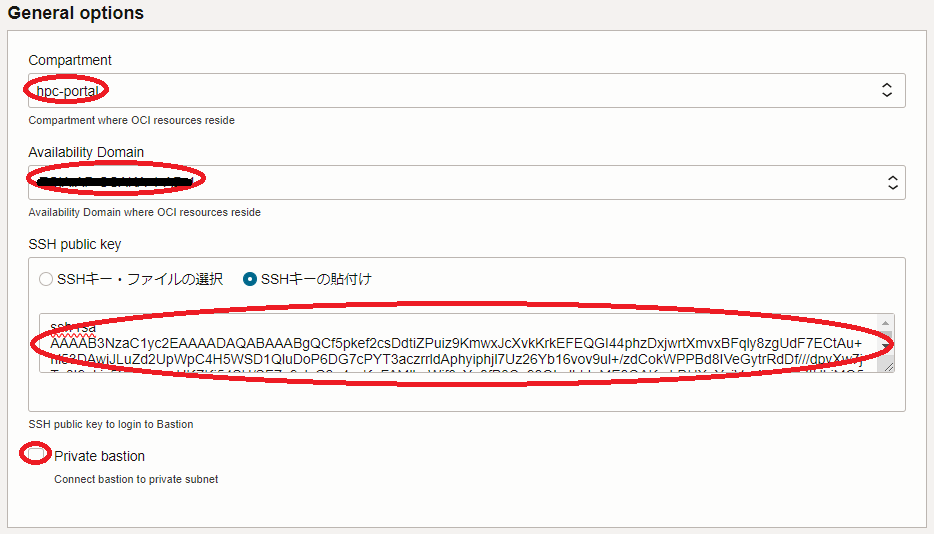
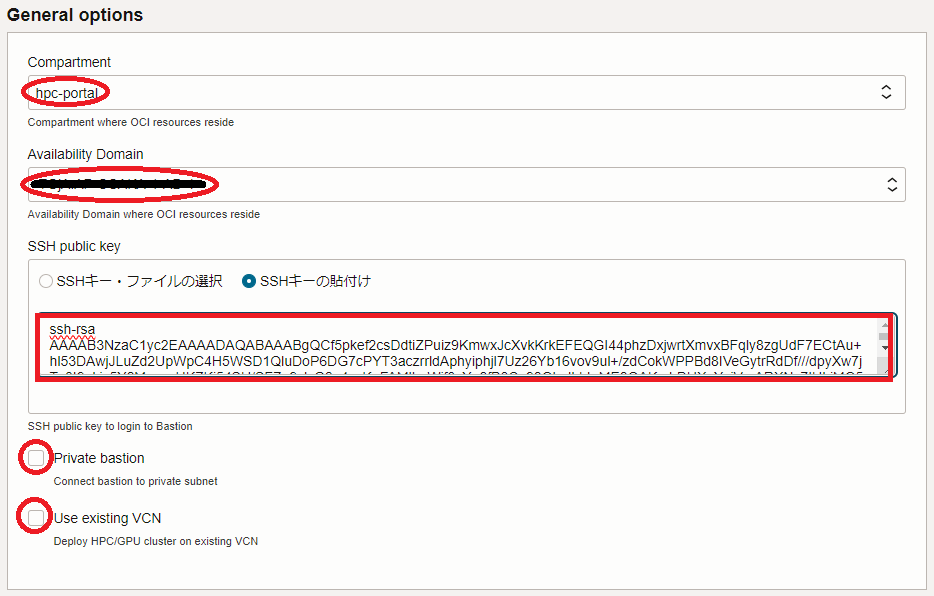
チュートリアル：OCI HPCチュートリアル集 カテゴリ：OCI HPCポータル 更新内容："HPCクラスタを構築する(基礎インフラ自動構築編)"に既存VCNを利用する機能を追加、これらに伴う修正、及び誤記訂正・軽微な修正

Changed region(s): [[0.0, 0.0899, 0.9625, 0.9288], [0.0, 0.0, 0.9936, 0.0599], [0.0, 0.9888, 0.9936, 1.0]]

diff --git a/tutorials/_hpc/spinup-hpc-cluster-withterraform.md b/tutorials/_hpc/spinup-hpc-cluster-withterraform.md
@@ -28,15 +28,21 @@ table, th, td {
 - 計算ノード用 **[インスタンス構成](/ocitutorials/hpc/#5-7-インスタンス構成)** 作成
 - **クラスタ・ネットワーク** と計算ノード構築
 - HPCクラスタ内のノード間SSHアクセスに使用するSSH鍵ペア作成・配布
-- 計算ノードの全ホスト名を記載したホストリストファイル（/home/opc/hostlist.txt）作成
+- 計算ノードの全ホスト名を記載したホストリストファイル（ **/home/opc/hostlist.txt** ）作成
 - 構築したBastionノード・計算ノードのホスト名・IPアドレス出力
 
 Bastionノードは、接続するサブネットをパブリックとプライベートから選択することが可能（※1）で、以下のBastionノードへのログイン方法に合わせて選択します。
 
 - インターネット経由ログイン -> パブリックサブネット接続
-- 拠点間接続経由ログイン > プライベートサブネット接続
+- 拠点間接続経由ログイン -> プライベートサブネット接続
 
 ※1）構築方法に **Terraform** CLIを採用する場合は、パブリックサブネット接続のみ選択可能です。
+
+またVCNと関連するネットワークリソースは、既に構築してあるものを活用することも可能で、この場合はこれらが以下の条件を満たしているている必要があります。
+
+- プライベートサブネットが存在する
+- パブリックサブネットが存在する（Bastionノードパブリック接続の場合）
+- パブリックサブネット・プライベートサブネット間で **セキュリティ・リスト** によりアクセスが制限されていない（Bastionノードパブリック接続の場合）
 
 ![システム構成図（パブリック）](architecture_diagram.png)
 <br>
@@ -56,7 +62,6 @@ Bastionノード構築は、 **[cloud-init](/ocitutorials/hpc/#5-11-cloud-init)*
 - NVMe SSDローカルディスク領域ファイルシステム作成
 - **firewalld** 停止
 - ルートファイルシステム拡張
-- **クラスタ・ネットワーク** 接続用ネットワークインターフェース作成
 - BastionノードのDNS名前解決をショートホスト名で行うための **resolv.conf** 修正
 - Bastionノードホームディレクトリ領域のNFSマウント
 
@@ -121,6 +126,8 @@ Bastionノード構築は、 **[cloud-init](/ocitutorials/hpc/#5-11-cloud-init)*
     （公開鍵ファイルのアップロード（ **SSHキー・ファイルの選択** ）と公開鍵のフィールドへの貼り付け（ **SSHキーの貼付け** ）が選択可能）
     - **Private bastion :** Bastionノードをプライベートサブネットに接続するかどうかを指定（デフォルト：パブリックサブネット接続）  
     （パブリックサブネットに接続する場合はチェックオフ/プライベートサブネットに接続する場合はチェック）
+    - **Use existing VCN :** 既存のVCNを使用するかどうかを指定（デフォルト：VCNを新規作成）  
+    （既存のVCNを使用する場合は、チェックすると表示されるVCN・パブリックサブネット・プライベートサブネットの各フィールドにOCIDを指定します。）
 
    ![画面ショット](stack_page02.png)  
 4.2 **Compute/GPU node options** フィールド
@@ -136,7 +143,7 @@ Bastionノード構築は、 **[cloud-init](/ocitutorials/hpc/#5-11-cloud-init)*
    ![画面ショット](stack_page03.png)
 
     ※2） 例えば **x9-ol89** と指定した場合、計算ノードのホスト名は **inst-xxxxx-x9-ol89** となります。（ **xxxxx** はランダムな文字列）  
-    ※3）以下のOCIDを指定します。
+    ※3）以下のOCIDを指定します。なおこのイメージは、Bastionノードにも使用されます。
 
     | No.<br>（※6） | **Oracle Linux**<br>バージョン | OCID                                                                          |
     | :---------: | :-----------------------: | :---------------------------------------------------------------------------: |
@@ -265,6 +272,10 @@ Bastionノード構築は、 **[cloud-init](/ocitutorials/hpc/#5-11-cloud-init)*
     | compartment_ocid   | HPCクラスタをデプロイする **コンパートメント** のOCID                                                    | **[ここ](https://docs.oracle.com/ja-jp/iaas/Content/GSG/Tasks/contactingsupport_topic-Finding_the_OCID_of_a_Compartment.htm)** を参照 |
     | ad                 | HPCクラスタをデプロイする **可用性ドメイン** 識別子                                                       | （※7）                                                                                                                             |
     | ssh_key            | Bastionノードログインに使用するSSH秘密鍵に対する公開鍵                                                     | -                                                                                                                                |
+    |exist_vcn|既存のVCNを使用するかどうかの指定（true/false）|-|
+    |vcn_ocid|既存のVCNを使用する場合使用するVCNのOCID（※11）|（※12）|
+    |public_ocid|既存のVCNを使用する場合使用するパブリックサブネットのOCID（※11）|（※12）|
+    |private_ocid|既存のVCNを使用する場合使用するプライベートサブネットのOCID（※11）|（※12）|
     | comp_shape         | 計算ノードに使用するシェイプ<br>・ **BM.Optimized3.36**                                             | -                                                                                                                                |
     | comp_image         | 計算ノードに使用するOSイメージのOCID                                                                | （※8）                                                                                                                             |
     | comp_boot_vol_size | 計算ノードの **ブートボリューム** のサイズ（GB）                                                         | -                                                                                                                                |
@@ -280,7 +291,9 @@ Bastionノード構築は、 **[cloud-init](/ocitutorials/hpc/#5-11-cloud-init)*
 
     ※8）コメントとして埋め込まれているOSイメージOCIDから、コメント文の記載を参考に適切なOSイメージOCIDのコメントを外して使用します。詳細は、 **[OCI HPCテクニカルTips集](/ocitutorials/hpc/#3-oci-hpcテクニカルtips集)** の **[クラスタネットワーキングイメージの選び方](/ocitutorials/hpc/tech-knowhow/osimage-for-cluster/)** の **[1. クラスタネットワーキングイメージ一覧](/ocitutorials/hpc/tech-knowhow/osimage-for-cluster/#1-クラスタネットワーキングイメージ一覧)** を参照してください。  
     ※9）詳細は、 **[OCI HPCパフォーマンス関連情報](/ocitutorials/hpc/#2-oci-hpcパフォーマンス関連情報)** の **[パフォーマンスに関連するベア・メタル・インスタンスのBIOS設定方法](/ocitutorials/hpc/benchmark/bios-setting/)** を参照してください。  
-    ※10）例えば **x9-ol89** と指定した場合、計算ノードのホスト名は **inst-xxxxx-x9-ol89** となります。（ **xxxxx** はランダムな文字列）
+    ※10）例えば **x9-ol89** と指定した場合、計算ノードのホスト名は **inst-xxxxx-x9-ol89** となります。（ **xxxxx** はランダムな文字列）  
+    ※11）既存のVCNを使用する場合のみコメントを外して指定します。  
+    ※12）OCIコンソール上で当該VCN・サブネットの詳細画面を表示して確認します。
 
 ***
 # 1. HPCクラスタ構築

diff --git a/tutorials/_hpc/tech-knowhow/install-openfoam.md b/tutorials/_hpc/tech-knowhow/install-openfoam.md
@@ -52,22 +52,31 @@ MPI言語規格に準拠するMPI実装
 3. ノード間並列実行（大規模構成で可能）
 4. ノード間並列実行でローカルディスクを活用（※1）（大規模構成で可能）
 
-※1） **BM.Optimized3.36** が内蔵するNVMe SSDのローカルディスクに計算結果を書き込む方法で、特に並列数を大きくした場合、 **3.** のNFSによるファイル共有ストレージを使用する方法と比較して、スケーラビリティを改善出来る場合があります。
+※1） **BM.Optimized3.36** が内蔵するNVMe SSDのローカルディスクに計算結果を書き込む方法で、特に並列数を大きくした場合、 **3.** のNFSによるファイル共有ストレージを使用する方法と比較して、解析処理のスケーラビリティを改善出来る場合があります。
 
 構築する環境は、以下を前提とします。
 
-- 計算ノードシェイプ ： **BM.Optimized3.36**
-- Bastionノードシェイプ ： **VM.Optimized3.Flex**
-- 計算ノードOS ： **Oracle Linux** 8.9（※2）/ **Oracle Linux** 8.9ベースのHPC **[クラスタネットワーキングイメージ](/ocitutorials/hpc/#5-13-クラスタネットワーキングイメージ)** （※3）
-- BastionノードOS ： **Oracle Linux** 8.9
+[計算ノード]
+- シェイプ ： **BM.Optimized3.36**
+- OS ： **Oracle Linux** 8.9（※2）/ **Oracle Linux** 8.9ベースのHPC **[クラスタネットワーキングイメージ](/ocitutorials/hpc/#5-13-クラスタネットワーキングイメージ)** （※3）
+- ファイル共有ストレージ ： **ブロック・ボリューム** NFSサーバ / **ファイル・ストレージ** （※4）でBastionノードと全計算ノードの **/home** をNFSでファイル共有
+- ローカルディスクマウントポイント ： **/mnt/localdisk** （※5）
+
+[Bastionノード]
+- シェイプ ： **VM.Optimized3.Flex**
+- OS ： **Oracle Linux** 8.9
+- ファイル共有ストレージ ： **ブロック・ボリューム** NFSサーバ / **ファイル・ストレージ** （※4）でBastionノードと全計算ノードの **/home** をNFSでファイル共有
+
+[ソフトウェア]
 - **OpenFOAM** ： v2312
-- **OpenMPI** ：5.0.3
+- **OpenMPI** ： 5.0.3
 - **ParaView** ： 5.11.2
-- ファイル共有ストレージ ： **ブロック・ボリューム** NFSサーバ / **ファイル・ストレージ** （※4）でBastionノード・全計算ノードの **/home** をNFSでファイル共有
 
 ※2）小規模構成の場合  
 ※3）大規模構成の場合で、 **[OCI HPCテクニカルTips集](/ocitutorials/hpc/#3-oci-hpcテクニカルtips集)** の **[クラスタネットワーキングイメージの選び方](/ocitutorials/hpc/tech-knowhow/osimage-for-cluster/)** の **[1. クラスタネットワーキングイメージ一覧](/ocitutorials/hpc/tech-knowhow/osimage-for-cluster/#1-クラスタネットワーキングイメージ一覧)** のイメージ **No.1** です。  
-※4）詳細は、 **[OCI HPCテクニカルTips集](/ocitutorials/hpc/#3-oci-hpcテクニカルtips集)** の **[コストパフォーマンスの良いファイル共有ストレージ構築方法](/ocitutorials/hpc/tech-knowhow/howto-configure-sharedstorage/)** を参照してください。
+※4）詳細は、 **[OCI HPCテクニカルTips集](/ocitutorials/hpc/#3-oci-hpcテクニカルtips集)** の **[コストパフォーマンスの良いファイル共有ストレージ構築方法](/ocitutorials/hpc/tech-knowhow/howto-configure-sharedstorage/)** を参照してください。  
+※5）詳細は、 **[OCI HPCテクニカルTips集](/ocitutorials/hpc/#3-oci-hpcテクニカルtips集)** の **[ベアメタルインスタンスの内蔵NVMe SSD領域ファイルシステム作成方法](/ocitutorials/hpc/tech-knowhow/nvme-filesystem/)** を参照してください。  
+  
 
 なお、ポスト処理に使用するX11ベースの **ParaView** は、これが動作するBastionノードでGNOMEデスクトップとVNCサーバを起動し、VNCクライアントをインストールした自身の端末からVNC接続して操作します。
 
@@ -94,9 +103,9 @@ MPI言語規格に準拠するMPI実装
 
 - 計算ノード **ブート・ボリューム** サイズ ： 100GB以上（インストールするソフトウェアの容量確保のため）
 - Bastionノード **ブート・ボリューム** サイズ ： 100GB以上（インストールするソフトウェアの容量確保のため）
-- 計算ノードSMT : 無効（※5）
+- 計算ノードSMT : 無効（※6）
 
-※5）SMTを無効化する方法は、 **[OCI HPCパフォーマンス関連情報](/ocitutorials/hpc/#2-oci-hpcパフォーマンス関連情報)** の **[パフォーマンスに関連するベアメタルインスタンスのBIOS設定方法](/ocitutorials/hpc/benchmark/bios-setting/)** を参照してください。
+※6）SMTを無効化する方法は、 **[OCI HPCパフォーマンス関連情報](/ocitutorials/hpc/#2-oci-hpcパフォーマンス関連情報)** の **[パフォーマンスに関連するベアメタルインスタンスのBIOS設定方法](/ocitutorials/hpc/benchmark/bios-setting/)** を参照してください。
 
 また、Bastionノードと全計算ノードの **/home** は、NFSで共有します。
 
@@ -405,7 +414,7 @@ MPI言語規格に準拠するMPI実装
 
 4. 以下コマンドを実行し、 **OpenFOAM** に同梱されているチュートリアルのうち **pitzDaily** のディレクトリを作業ディレクトリにコピーします。  
 この手順は、ローカルディスクを活用する方法かそれ以外（ファイル共有ストレージを活用する方法）で異なる手順を実施します。  
-なお、ローカルディスクを活用する方法の場合は、ローカルディスクが **/mnt/localdisk** にマウントされており、この直下にCFD解析フロー実行ユーザをオーナーとするディレクトリ **openfoam** が全ての計算ノードで作成されているものとします。
+ローカルディスクを活用する方法の場合は、CFD解析フロー実行ユーザをオーナーとするディレクトリ **/mnt/localdisk/openfoam** が全ての計算ノードで予め作成されているものとします。
 
     [ファイル共有ストレージを活用する方法]
 
@@ -578,7 +587,7 @@ MPI言語規格に準拠するMPI実装
     $
     ```
 
-3. 以下コマンドを実行し、ここまで作成したケースディレクトリ **pitzDaily** を他の計算ノードに配布します。
+3. 以下コマンドを実行し、ここまで作成したケースディレクトリ **pitzDaily** を他の計算ノードのローカルディスクに配布します。
 
     ```sh
     $ for hname in `grep -v \`hostname\` ~/hostlist.txt`; do echo $hname; rsync -a ./ $hname:/mnt/localdisk/openfoam/pitzDaily/; done
@@ -602,7 +611,7 @@ MPI言語規格に準拠するMPI実装
     $ reconstructPar
     ```
 
-7. 以下コマンドを実行し、後のポスト処理に備えてケースディレクトリ **pitzDaily** をファイル共有ストレージにコピーします。
+7. 以下コマンドを実行し、後のポスト処理に備えてローカルディスクに存在するケースディレクトリ **pitzDaily** をファイル共有ストレージにコピーします。
 
     ```sh
     $ cd .. && cp -pR ./pitzDaily $FOAM_RUN/

diff --git a/tutorials/_hpc/tech-knowhow/nvme-filesystem.md b/tutorials/_hpc/tech-knowhow/nvme-filesystem.md
@@ -8,50 +8,50 @@ header:
 #link: https://community.oracle.com/tech/welcome/discussion/4474261/
 ---
 
-高速スクラッチ領域として利用することを想定したNVMe SSDを内蔵するHPCクラスタ向けベアメタルシェイプ **[BM.Optimized3.36](https://docs.oracle.com/ja-jp/iaas/Content/Compute/References/computeshapes.htm#bm-hpc-optimized)** やGPUクラスタ向けベアメタルシェイプ **[BM.GPU4.8/BM.GPU.GM4.8](https://docs.oracle.com/ja-jp/iaas/Content/Compute/References/computeshapes.htm#bm-gpu)** は、NVMe SSDをOSのファイルシステムとして利用するための設定をユーザ自身が行う必要があります。  
-本テクニカルTipsは、このファイルシステム作成方法を解説します。
-
 ***
 # 0. 概要
 
-内蔵NVMe SSDドライブにファイルシステムを作成する方法は、搭載するドライブ数が異なるBM.Optimized3.36とBM.GPU4.8/BM.GPU.GM4.8でその手順が異なり、それぞれの手順を以降で解説します。
+内蔵NVMe SSDドライブにファイルシステムを作成する方法は、搭載するドライブ数が異なる **[BM.Optimized3.36](https://docs.oracle.com/ja-jp/iaas/Content/Compute/References/computeshapes.htm#bm-hpc-optimized)** と **[BM.GPU4.8/BM.GPU.GM4.8](https://docs.oracle.com/ja-jp/iaas/Content/Compute/References/computeshapes.htm#bm-gpu)** でその手順が異なり、それぞれの手順を以降で解説します。
+
+本テクニカルTipsが前提とするOSは、 **Oracle Linux** です。
 
 なお 、ここで解説するファイルシステム作成手順は、 **[OCI HPCチュートリアル集](/ocitutorials/hpc/#1-oci-hpcチュートリアル集)** で紹介する構築手順に含まれるため、これらチュートリアルの手順に従ってHPCクラスタやGPUクラスタを構築する場合は、改めて実施する必要はありません。
 
 ***
 # 1. BM.Optimized3.36用ファイルシステム作成手順
 
-BM.Optimized3.36は、3.84 TBのNVMe SSDディスクを1ドライブ内蔵するため、以下の手順を該当するノードのrootで実行し、ファイルシステムを作成します。
+**BM.Optimized3.36** は、3.84 TBのNVMe SSDディスクを1ドライブ内蔵するため、以下の手順を該当するノードのopcユーザで実行し、ファイルシステムを作成します。
 
 ```sh
-> parted -s /dev/nvme0n1 mklabel gpt
-> parted -s /dev/nvme0n1 -- mkpart primary xfs 1 -1
-> mkfs.xfs -L localscratch /dev/nvme0n1p1
-> mkdir -p /mnt/localdisk
-> echo "LABEL=localscratch /mnt/localdisk/ xfs defaults,noatime 0 0" >> /etc/fstab
-> mount /mnt/localdisk
-> df -h /mnt/localdisk
+$ sudo parted -s /dev/nvme0n1 mklabel gpt
+$ sudo parted -s /dev/nvme0n1 -- mkpart primary xfs 1 -1
+$ sudo mkfs.xfs -L localscratch /dev/nvme0n1p1
+$ sudo mkdir -p /mnt/localdisk
+$ echo "LABEL=localscratch /mnt/localdisk/ xfs defaults,noatime 0 0" | sudo tee -a /etc/fstab
+$ sudo mount /mnt/localdisk
+$ df -h /mnt/localdisk
 Filesystem      Size  Used Avail Use% Mounted on
 /dev/nvme0n1p1  3.5T   33M  3.5T   1% /mnt/localdisk
+$
 ```
 
-この手順は、NVMe SSDディスク全領域を1パーティションで区画し、ラベル名"localscratch"でXFSファイルシステムにフォーマットし、OS再起動時に自動的にマウントされる設定で/mnt/localdiskにマウントします。
+この手順は、NVMe SSDディスク全領域を1パーティションで区画し、ラベル名 **localscratch** でXFSファイルシステムにフォーマットし、OS再起動時に自動的にマウントされる設定で **/mnt/localdisk** にマウントします。
 
 ***
 # 2. BM.GPU4.8/BM.GPU.GM4.8用ファイルシステム作成手順
 
-BM.GPU4.8/BM.GPU.GM4.8は、6.4 TBのNVMe SSDディスクを4ドライブ内蔵するため、以下の手順を該当するノードのrootで実行し、ファイルシステムを作成します。
+**BM.GPU4.8/BM.GPU.GM4.8** は、6.4 TBのNVMe SSDディスクを4ドライブ内蔵するため、以下の手順を該当するノードのopcユーザで実行し、ファイルシステムを作成します。
 
 ```sh
-> vgcreate nvme /dev/nvme0n1 /dev/nvme1n1 /dev/nvme2n1 /dev/nvme3n1
-> lvcreate -l 100%FREE nvme
-> mkfs.xfs -L localscratch /dev/nvme/lvol0
-> mkdir -p /mnt/localdisk
-> echo "LABEL=localscratch /mnt/localdisk/ xfs defaults,noatime 0 0" >> /etc/fstab
-> mount /mnt/localdisk
-> df -h /mnt/localdisk
+$ sudo vgcreate nvme /dev/nvme0n1 /dev/nvme1n1 /dev/nvme2n1 /dev/nvme3n1
+$ sudo lvcreate -l 100%FREE nvme
+$ sudo mkfs.xfs -L localscratch /dev/nvme/lvol0
+$ sudo mkdir -p /mnt/localdisk
+$ echo "LABEL=localscratch /mnt/localdisk/ xfs defaults,noatime 0 0" | sudo tee -a /etc/fstab
+$ sudo mount /mnt/localdisk
+$ df -h /mnt/localdisk
 Filesystem              Size  Used Avail Use% Mounted on
 /dev/mapper/nvme-lvol0   25T   34M   25T   1% /mnt/localdisk
 ```
 
-この手順は、4ドライブのNVMe SSDディスクをまとめて1個の論理ボリュームを作成し、ラベル名"localscratch"でXFSファイルシステムにフォーマットし、OS再起動時に自動的にマウントされる設定で/mnt/localdiskにマウントします。
+この手順は、4ドライブのNVMe SSDディスクをまとめて1個の論理ボリュームとして作成し、ラベル名 **localscratch** でXFSファイルシステムにフォーマットし、OS再起動時に自動的にマウントされる設定で **/mnt/localdisk** にマウントします。
